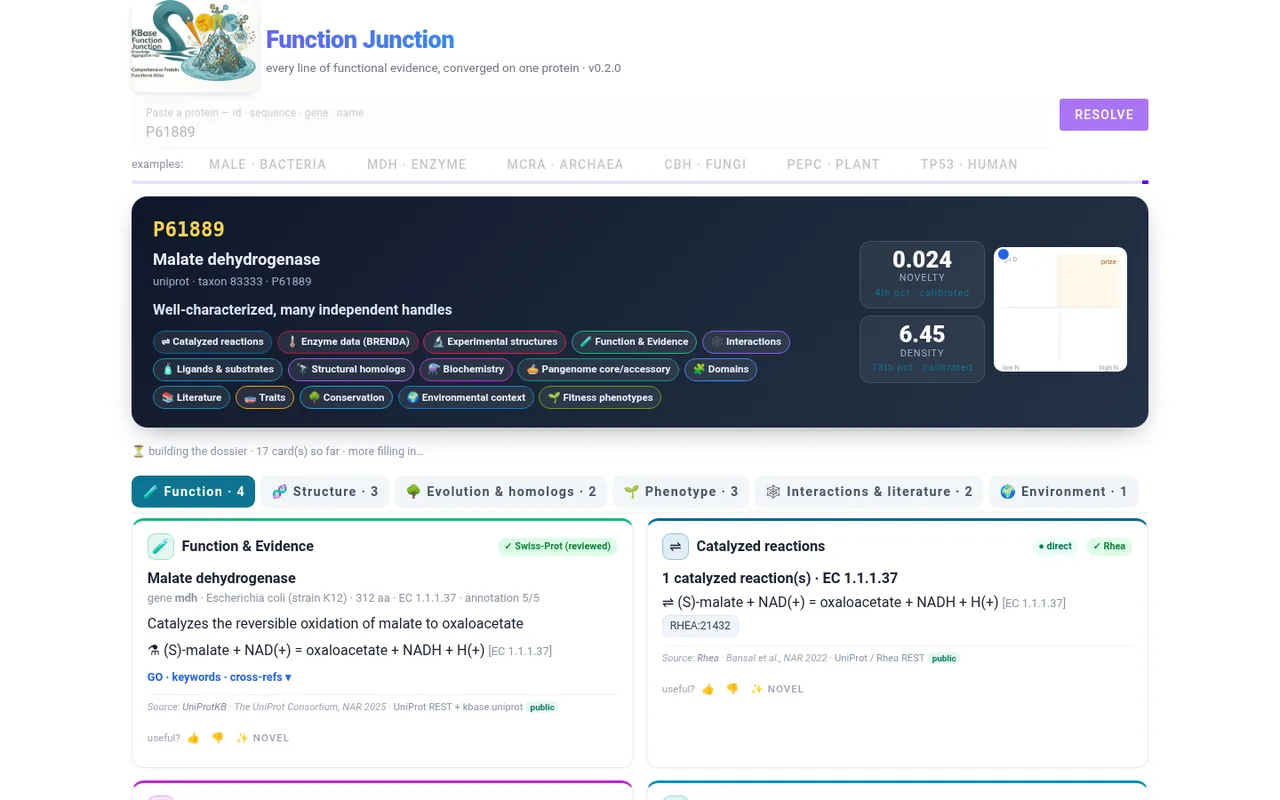
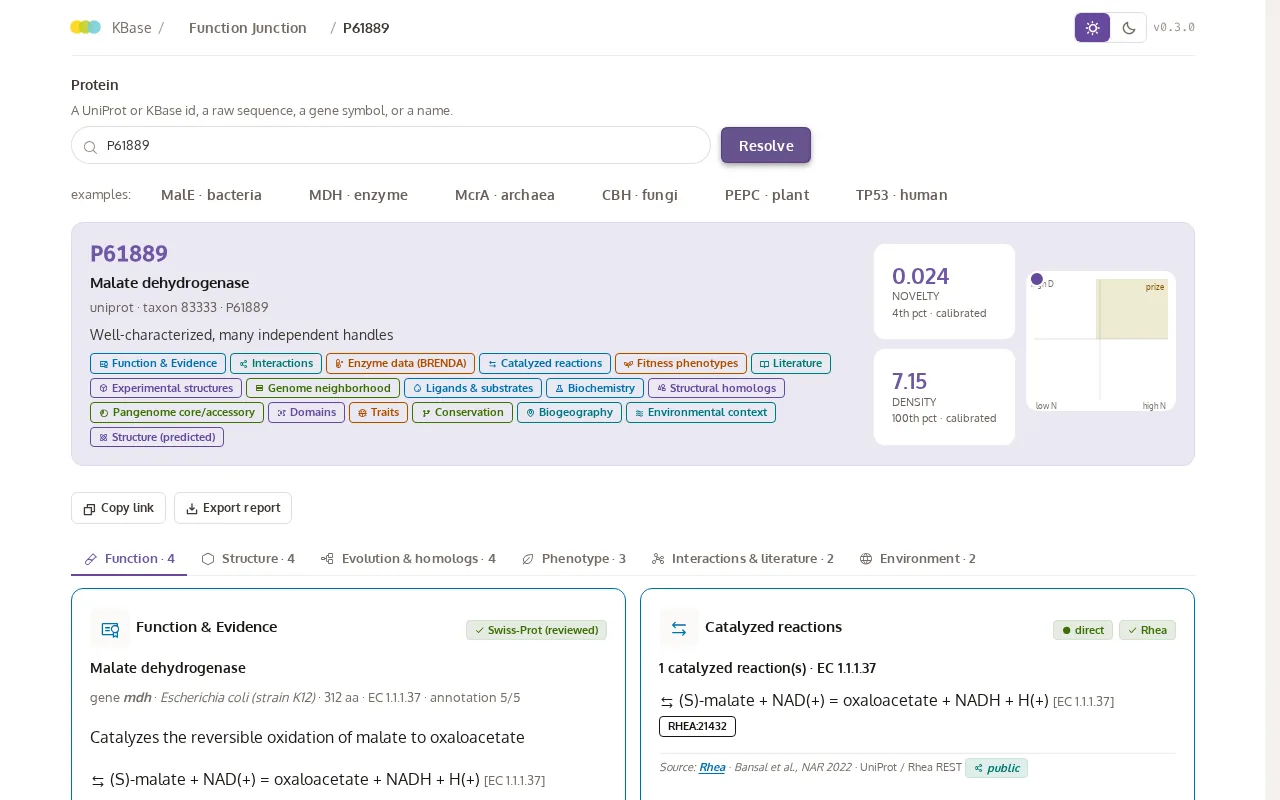
Refresh portal gallery cards and thumbnails against what is deployed (#47)
* Every card says what its portal serves today, and five thumbnails show it

Versions and updated dates re-derived per the card rules: the printed
version where the portal is readable (function-junction v0.3.0 is behind
its v0.3.1 tag), the newest tag where it prints none (genknown, ideas) or
where a team-password gate now hides it (enigma-strata, pmi-understory,
phagecast, asma). Sources re-copied from the registries that moved:
fungal-jungle (TCDB out; fitness + HIP-HOP in) and diaspora (annotation,
trait, and environment layers in; KE-pangenome no longer credited).
Thumbnails recaptured from the live portals on their driven views; the
four gated portals keep their pre-gate captures.

* Two gate passwords arrived: Strata's printed v0.5.0 confirmed, both rethumbed

ENIGMA Strata prints v0.5.0 inside its gate — the deployed version, not a
tag guess — and ASMA prints none, so its newest-tag comment now says that
from behind the gate. Thumbnails recaptured on the post-gate views:
Strata's Welcome tab, ASMA's arc walk with the guide reopened (the app
now hides it by default). Phagecast's shared password was rejected, so
its card and thumbnail stand as before.

* PMI Understory verified behind its gate: no printed version, thumbnail current

The Collection view inside the gate shows the same counts the existing
thumbnail does (3,207 isolates · 548 genomes), so the capture stands;
the version comment now states the portal prints none rather than that
[…]

diff --git a/src/routes/portals.tsx b/src/routes/portals.tsx
@@ -189,8 +189,8 @@ const DECLARED: readonly Portal[] = [
       'NMDC',
       'SPIRE / GBIF',
     ],
-    version: 'v0.2.0',
-    updated: '2026-08-21',
+    version: 'v0.3.0',
+    updated: '2026-08-31',
   },
   {
     slug: 'genknown',
@@ -216,8 +216,9 @@ const DECLARED: readonly Portal[] = [
       'NMDC',
       'GOLD',
     ],
-    version: 'v0.1.3',
-    updated: '2026-08-21',
+    // The deployed portal prints no version, so this is the newest tag.
+    version: 'v0.1.7',
+    updated: '2026-09-07',
   },
   {
     slug: 'fungal-jungle',
@@ -227,29 +228,31 @@ const DECLARED: readonly Portal[] = [
     section: 'kbase',
     facets: [FACETS.genomes, FACETS.ecology, FACETS.proteins],
     topics: ['Fungi', 'CAZymes', 'Structure'],
+    // src/fungal_jungle/sources.py
     sources: [
-      'Ensembl Fungi',
       'JGI MycoCosm',
+      'Ensembl Fungi',
+      'GBIF',
+      'CAZy',
+      'dbCAN',
+      'MEROPS',
+      'UniProt',
+      'InterPro',
+      'AlphaFold DB',
+      'FUNGuild',
+      'MIBiG',
+      'antiSMASH-DB',
+      'WorldClim v2',
+      'SoilGrids',
+      'Fungal Fitness Browser (RB-TnSeq)',
+      'Yeast HIP-HOP chemical genomics',
       'SGD',
       'PomBase',
       'CGD',
       'NCBI Datasets / Taxonomy',
-      'GBIF backbone',
-      'CAZy',
-      'dbCAN',
-      'MEROPS',
-      'TCDB',
-      'InterPro',
-      'MIBiG',
-      'antiSMASH-DB',
-      'FunGuild',
-      'AlphaFold DB',
-      'UniProt',
-      'WorldClim v2',
-      'SoilGrids',
     ],
-    version: 'v0.6.0',
-    updated: '2026-08-21',
+    version: 'v0.7.5',
+    updated: '2026-09-01',
   },
   {
     slug: 'plant-terra',
@@ -275,8 +278,8 @@ const DECLARED: readonly Portal[] = [
       'SSURGO',
       'GBIF',
     ],
-    version: 'v0.2.2',
-    updated: '2026-08-25',
+    version: 'v0.2.3',
+    updated: '2026-08-29',
   },
   {
     slug: 'diaspora',
@@ -286,23 +289,33 @@ const DECLARED: readonly Portal[] = [
     section: 'kbase',
     facets: [FACETS.ecology, FACETS.environment],
     topics: ['Metagenomics', 'Biogeography', 'Pangenomes'],
+    // src/diaspora/attribution.py
     sources: [
       'NMDC',
-      'NEON',
       'EMP',
-      'GROWdb (USGS)',
-      'PlanetMicrobe',
-      'agmicrobiome',
+      'Tara Oceans',
       'MGnify',
       'SPIRE',
-      'SMAG',
       'JGI-GEM',
-      'Tara Oceans',
       'Microbe Atlas',
-      'KBase KE-pangenome',
+      'SMAG',
+      'GROW (USGS)',
+      'PlanetMicrobe',
+      'agmicrobiome',
+      'NEON (via NMDC)',
+      'GTDB',
+      'eggNOG',
+      'KEGG',
+      'NCBI Taxonomy / BioSample / SRA',
+      'ENVO',
+      'Microbial trait tables (Madin · BactoTraits · metaTraits · FAPROTAX)',
+      'EarthEnv',
+      'CHELSA',
+      'Copernicus GLO-30 DEM',
+      'Google Earth Engine rasters (ERA5 · NDVI/EVI · soil)',
     ],
-    version: 'v0.2.0',
-    updated: '2026-08-21',
+    version: 'v0.4.1',
+    updated: '2026-09-07',
   },
   {
     slug: 'enigma-strata',
@@ -323,8 +336,9 @@ const DECLARED: readonly Portal[] = [
       'Web of Microbes',
       'NOAA GHCN-Daily',
     ],
-    version: 'v0.4.0',
-    updated: '2026-08-21',
+    // Behind a team-password gate (2026-09); the portal prints this inside it.
+    version: 'v0.5.0',
+    updated: '2026-08-31',
   },
   {
     slug: 'pmi-understory',
@@ -351,9 +365,10 @@ const DECLARED: readonly Portal[] = [
       'GapMind',
       'NCBI Taxonomy / Datasets',
     ],
-    // The deployed portal prints no version, so this is the newest tag.
-    version: 'v0.2.2',
-    updated: '2026-08-26',
+    // Behind a team-password gate (2026-09); inside it the portal prints no
+    // version, so this is the newest tag.
+    version: 'v0.3.2',
+    updated: '2026-09-01',
   },
   {
     slug: 'phagecast',
@@ -365,8 +380,10 @@ const DECLARED: readonly Portal[] = [
     topics: ['Phage', 'Host range', 'Receptors'],
     // No sources registry yet; these are from the README and docs/STORAGE.md.
     sources: ['Phage Foundry (DOE BER)', 'GenomeDepot'],
-    version: 'v0.46.0',
-    updated: '2026-08-24',
+    // The deployed portal sits behind a team-password gate (2026-09), so its
+    // printed version is unreadable from outside; this is the newest tag.
+    version: 'v0.48.0',
+    updated: '2026-09-04',
   },
   {
     slug: 'asma',
@@ -392,10 +409,10 @@ const DECLARED: readonly Portal[] = [
       'KEGG BRITE',
       'ModelSEED Biochemistry',
     ],
-    // The deployed portal prints no version, in its header or its footer, so
-    // this is the newest tag. release.yaml names v0.2.0, which is not tagged.
-    version: 'v0.1.0-review',
-    updated: '2026-09-02',
+    // Behind a team-password gate (2026-09); inside it the portal prints no
+    // version, so this is the newest tag.
+    version: 'v0.3.0',
+    updated: '2026-09-07',
   },
   {
     // Repo and CLI are `ideas-portal`; the deployed path is /portals/ideas/.
@@ -410,8 +427,39 @@ const DECLARED: readonly Portal[] = [
     sources: ['IDEAS program (Argonne)', 'PubChem', 'UniProt', 'RCSB PDB'],
     // The deployed portal prints no app version (the "v1" it shows is the
     // dataset's), so this is the newest tag.
-    version: 'v0.1.4',
-    updated: '2026-08-25',
+    version: 'v0.1.7',
+    updated: '2026-09-01',
+  },
+  {
+    slug: 'fungal-biochemistry',
+    title: 'Fungal GEMs Portal',
+    blurb:
+      'The 13 core published fungal genome-scale metabolic models, reconciled onto ModelSEED biochemistry — reactions, compounds and pathways with LLM-consensus confidence tiers, placed on the fungal tree of life with model and genome coverage.',
+    section: 'data',
+    facets: [FACETS.genomes, FACETS.proteins],
+    topics: ['Fungi', 'Metabolic models', 'BRaVE + BREAD'],
+    // `fungal-biochemistry sources --json` emits only the 13 models' papers, so
+    // these are docs/DATA_SOURCES.md plus what the two contributed-dataset tabs
+    // render (they read their own packaged assets, not the core-13 bundle).
+    sources: [
+      'Published fungal GEMs',
+      'fungi_recon corpus (KBase)',
+      'ModelSEED Biochemistry',
+      'JGI MycoCosm',
+      'NCBI Taxonomy / Assembly',
+      'BiGG',
+      'KEGG',
+      'MetaCyc',
+      'UniProt',
+      'NCBI CDD',
+    ],
+    // The deployed portal prints `app 0.1.0` in its footer; the `core13 · v1` in
+    // the header is the export bundle's build, not the app's version.
+    version: 'v0.1.0',
+    // The repo carries no tags, so this is the commit date of what is deployed:
+    // the portal serves the post-rename /portals/fungal-biochemistry/ path and
+    // the two contributed tabs, both of which land by 36778d5 (2026-09-11).
+    updated: '2026-09-11',
   },
 ];
 

diff --git a/src/routes/portals.module.css b/src/routes/portals.module.css
@@ -344,13 +344,6 @@
   font-size: var(--fs-4);
   line-height: 1.6;
   color: var(--c-ink3);
-  /* Keep every card's text block the same height so the tag row and
-     meta strip line up across the grid. */
-  display: -webkit-box;
-  -webkit-box-orient: vertical;
-  -webkit-line-clamp: 4;
-  line-clamp: 4;
-  overflow: hidden;
 }
 
 .facets {
